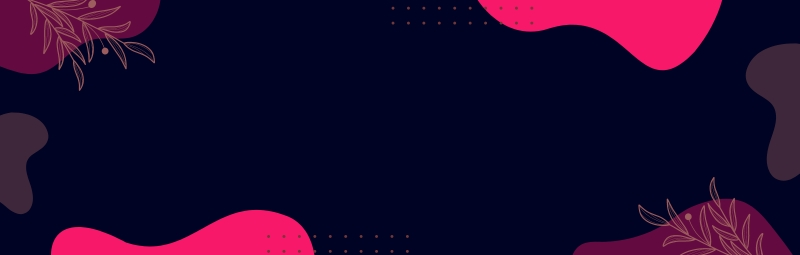
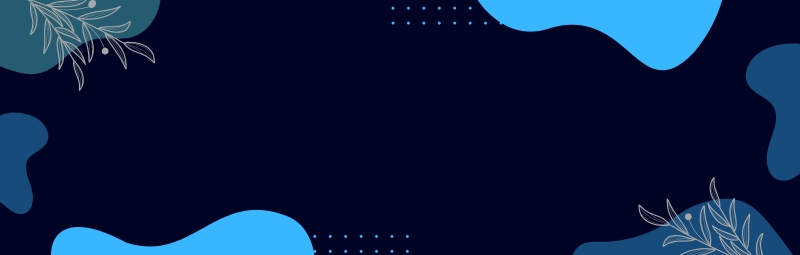
add change primary color

diff --git a/src/pages/Home.jsx b/src/pages/Home.jsx
@@ -69,7 +69,7 @@ const Home = () => {
             <div className="absolute top-0 left-0 bg-green-200 w-full h-full custom-blur rounded-md">
               <div className="w-full h-full flex flex-col justify-center items-center">
                 <h1 className="text-3xl md:text-5xl font-bold text-white">
-                  Hi <span className="text-[#F71869]">Admin !</span>
+                  Hi <span className="text-[#199bff]">Admin !</span>
                 </h1>
                 <p className="text-lg text-white">Welcome to Marcline</p>
               </div>
@@ -79,7 +79,7 @@ const Home = () => {
         <div className="w-full mt-5">
           <div className="flex items-center justify-between">
             <p className="text-xl font-bold">Popular Training</p>
-            <p className="text-sm text-[#F71869] hover:text-[#050828] transition-all duration-500">
+            <p className="text-sm text-[#199bff] hover:text-[#050828] transition-all duration-500">
               <Link to={"/training"}>View All</Link>
             </p>
           </div>
@@ -116,7 +116,7 @@ const Home = () => {
         <div className="w-full mt-5">
           <div className="flex items-center justify-between">
             <p className="text-xl font-bold">Latest Blogs</p>
-            <p className="text-sm text-[#F71869] hover:text-[#050828] transition-all duration-500">
+            <p className="text-sm text-[#199bff] hover:text-[#050828] transition-all duration-500">
               <Link to={"/blogs"}>View All</Link>
             </p>
           </div>

diff --git a/src/shared/Sidenav.jsx b/src/shared/Sidenav.jsx
@@ -86,7 +86,7 @@ const Sidenav = () => {
                     <div className="group">
                       <div
                         className={`rounded-md flex items-center justify-between menu-title p-2 cursor-pointer hover:text-[#050828] transition-all duration-500 ${
-                          activeMenu === index ? "bg-[#F71869] text-white" : ""
+                          activeMenu === index ? "bg-[#199bff] text-white" : ""
                         }`}
                         onClick={() => handleMenuClick(index)}
                       >
@@ -125,7 +125,7 @@ const Sidenav = () => {
                       to={item.link}
                       className={`block p-2 rounded-md hover:text-[#050828] transition-all duration-500 ${
                         currentPath === item.link
-                          ? "bg-[#F71869] text-white"
+                          ? "bg-[#199bff] text-white"
                           : ""
                       }`}
                       onClick={toggleSidebar}

diff --git a/src/pages/HomeAbout.jsx b/src/pages/HomeAbout.jsx
@@ -21,7 +21,7 @@ const HomeAbout = () => {
         <div>
           {!data ? (
             <Link to={"/dashboard/add-home-about"}>
-              <button className="bg-[#F71869] text-white px-4 py-2 rounded-md">
+              <button className="bg-[#199bff] text-white px-4 py-2 rounded-md">
                 Add Details
               </button>
             </Link>

diff --git a/src/pages/MainAbout.jsx b/src/pages/MainAbout.jsx
@@ -16,7 +16,7 @@ const MainAbout = () => {
         <div>
           {!data ? (
             <Link to={"/dashboard/add-home-about"}>
-              <button className="bg-[#F71869] text-white px-4 py-2 rounded-md">
+              <button className="bg-[#199bff] text-white px-4 py-2 rounded-md">
                 Add Details
               </button>
             </Link>

diff --git a/src/pages/Software.jsx b/src/pages/Software.jsx
@@ -16,7 +16,7 @@ const Software = () => {
         <div>
           {!data ? (
             <Link to={"/add-software"}>
-              <button className="bg-[#F71869] text-white px-4 py-2 rounded-md">
+              <button className="bg-[#199bff] text-white px-4 py-2 rounded-md">
                 Add Software
               </button>
             </Link>

diff --git a/src/pages/Training.jsx b/src/pages/Training.jsx
@@ -16,7 +16,7 @@ const Training = () => {
         <div>
           {!data ? (
             <Link to={"/add-training"}>
-              <button className="bg-[#F71869] text-white px-4 py-2 rounded-md">
+              <button className="bg-[#199bff] text-white px-4 py-2 rounded-md">
                 Add Training
               </button>
             </Link>

diff --git a/src/pages/Profile.jsx b/src/pages/Profile.jsx
@@ -16,7 +16,7 @@ const Profile = () => {
         <div>
           {!data ? (
             <Link to={"/add-slider"}>
-              <button className="bg-[#F71869] text-white px-4 py-2 rounded-md">
+              <button className="bg-[#199bff] text-white px-4 py-2 rounded-md">
                 Update Profile
               </button>
             </Link>

diff --git a/src/pages/Services.jsx b/src/pages/Services.jsx
@@ -16,7 +16,7 @@ const Services = () => {
         <div>
           {!data ? (
             <Link to={"/add-service"}>
-              <button className="bg-[#F71869] text-white px-4 py-2 rounded-md">
+              <button className="bg-[#199bff] text-white px-4 py-2 rounded-md">
                 Add Service
               </button>
             </Link>

diff --git a/src/pages/EditHomeAbout.jsx b/src/pages/EditHomeAbout.jsx
@@ -111,7 +111,7 @@ const EditHomeAbout = ({ initialDetails, initialImage }) => {
           )}
           <button
             onClick={handleUpload}
-            className="mt-5 bg-[#F71869] text-white px-4 py-2 rounded"
+            className="mt-5 bg-[#199bff] text-white px-4 py-2 rounded"
           >
             Save Changes
           </button>

diff --git a/src/pages/Slider.jsx b/src/pages/Slider.jsx
@@ -16,7 +16,7 @@ const Slider = () => {
         <div>
           {!data ? (
             <Link to={"/add-slider"}>
-              <button className="bg-[#F71869] text-white px-4 py-2 rounded-md">
+              <button className="bg-[#199bff] text-white px-4 py-2 rounded-md">
                 Add Slider
               </button>
             </Link>

diff --git a/src/pages/Blogs.jsx b/src/pages/Blogs.jsx
@@ -43,7 +43,7 @@ const Blogs = () => {
         </div>
         <div>
           <Link to={"/add-blog"}>
-            <button className="bg-[#F71869] text-white px-4 py-2 rounded-md">
+            <button className="bg-[#199bff] text-white px-4 py-2 rounded-md">
               Add Blog
             </button>
           </Link>

diff --git a/src/pages/AddHomeAbout.jsx b/src/pages/AddHomeAbout.jsx
@@ -106,7 +106,7 @@ const AddHomeAbout = () => {
           )}
           <button
             onClick={handleUpload}
-            className="mt-5 bg-[#F71869] text-white px-4 py-2 rounded"
+            className="mt-5 bg-[#199bff] text-white px-4 py-2 rounded"
           >
             Upload
           </button>
